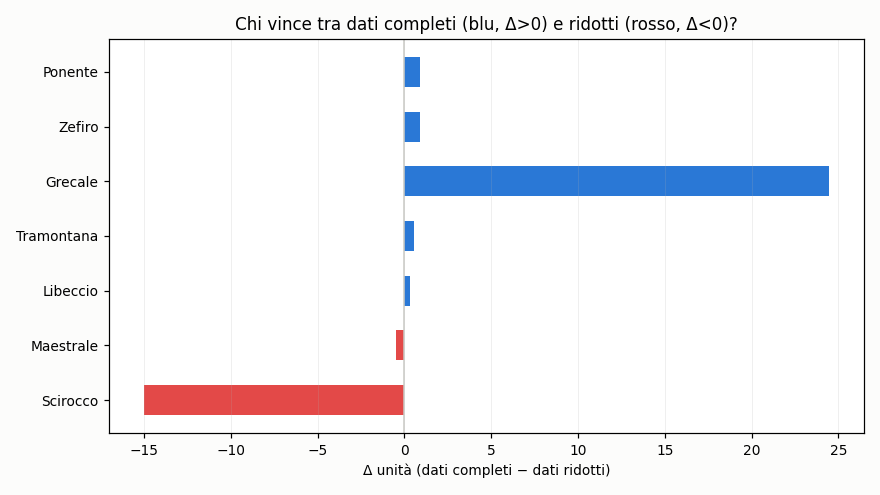
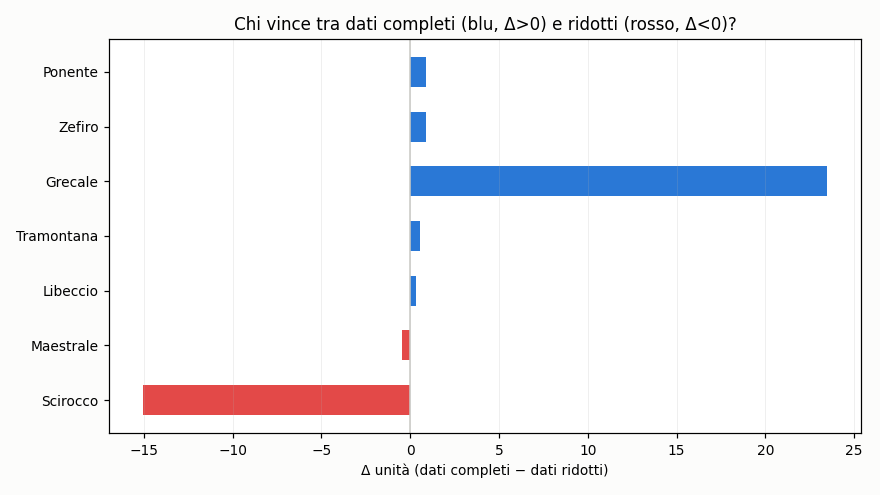
aggiornamento 2026-07-27 16:06 UTC

diff --git a/README.md b/README.md
@@ -37,9 +37,9 @@ scala in unità). Non indichiamo quale.
 
 ## Grafici
 
-![Coppie: dati completi vs ridotti](https://raw.githubusercontent.com/Kitem19/ippica-track-record/main/charts/equity_pairs.png?v=a338d2a0)
+![Coppie: dati completi vs ridotti](https://raw.githubusercontent.com/Kitem19/ippica-track-record/main/charts/equity_pairs.png?v=bca786f7)
 
-![Delta per coppia](https://raw.githubusercontent.com/Kitem19/ippica-track-record/main/charts/coppie_delta.png?v=1aa9d7fb)
+![Delta per coppia](https://raw.githubusercontent.com/Kitem19/ippica-track-record/main/charts/coppie_delta.png?v=b224c6b7)
 
 ### Come leggere i grafici
 
@@ -60,7 +60,7 @@ _Poche giornate: numeri ancora rumorosi, si conclude a fine fase (31/7)._
 - **Maestrale**: in sostanziale pareggio — troppo presto per dire
 - **Libeccio**: in sostanziale pareggio — troppo presto per dire
 - **Tramontana**: in sostanziale pareggio — troppo presto per dire
-- **Grecale**: dati completi avanti di 24,5u
+- **Grecale**: dati completi avanti di 23,5u
 - **Zefiro**: in sostanziale pareggio — troppo presto per dire
 - **Ponente**: in sostanziale pareggio — troppo presto per dire
 
@@ -68,22 +68,22 @@ _Poche giornate: numeri ancora rumorosi, si conclude a fine fase (31/7)._
 
 | Sistema | Cassa (u) | P/L (u) | Selezioni | Escluse | Stato |
 |---|---|---|---|---|---|
-| Grecale | 24,2 | +4,2 | 310 | 4 | 🟢 |
+| Grecale | 23,2 | +3,2 | 311 | 4 | 🟢 |
 | Scirocco-B | 15,0 | -5,0 | 243 | 0 | 🟢 |
 | Zefiro | 0,4 | -19,6 | 267 | 8 | 🟢 |
-| Maestrale-B | 0,0 | -20,0 | 100 | 243 | 🛑 |
-| Ponente | 0,0 | -20,0 | 213 | 31 | 🛑 |
+| Maestrale-B | 0,0 | -20,0 | 100 | 244 | 🛑 |
+| Ponente | 0,0 | -20,0 | 213 | 32 | 🛑 |
 | Scirocco | 0,0 | -20,1 | 80 | 270 | 🛑 |
-| Grecale-B | 0,0 | -20,2 | 137 | 177 | 🛑 |
+| Grecale-B | 0,0 | -20,2 | 137 | 178 | 🛑 |
 | Tramontana | 0,0 | -20,3 | 45 | 312 | 🛑 |
 | Zefiro-B | 0,0 | -20,5 | 143 | 76 | 🛑 |
 | Maestrale | 0,0 | -20,5 | 104 | 262 | 🛑 |
 | Libeccio | 0,0 | -20,6 | 181 | 171 | 🛑 |
-| Tramontana-B | 0,0 | -20,8 | 324 | 18 | 🛑 |
+| Tramontana-B | 0,0 | -20,8 | 324 | 19 | 🛑 |
 | Libeccio-B | 0,0 | -20,9 | 119 | 185 | 🛑 |
 | Ponente-B | 0,0 | -21,0 | 63 | 90 | 🛑 |
 
-_Aggiornato: 27/07 18:01_
+_Aggiornato: 27/07 18:06_
 ---
 *Nessuna delle informazioni qui pubblicate costituisce consiglio di gioco.
 Il gioco può causare dipendenza — 18+.*
